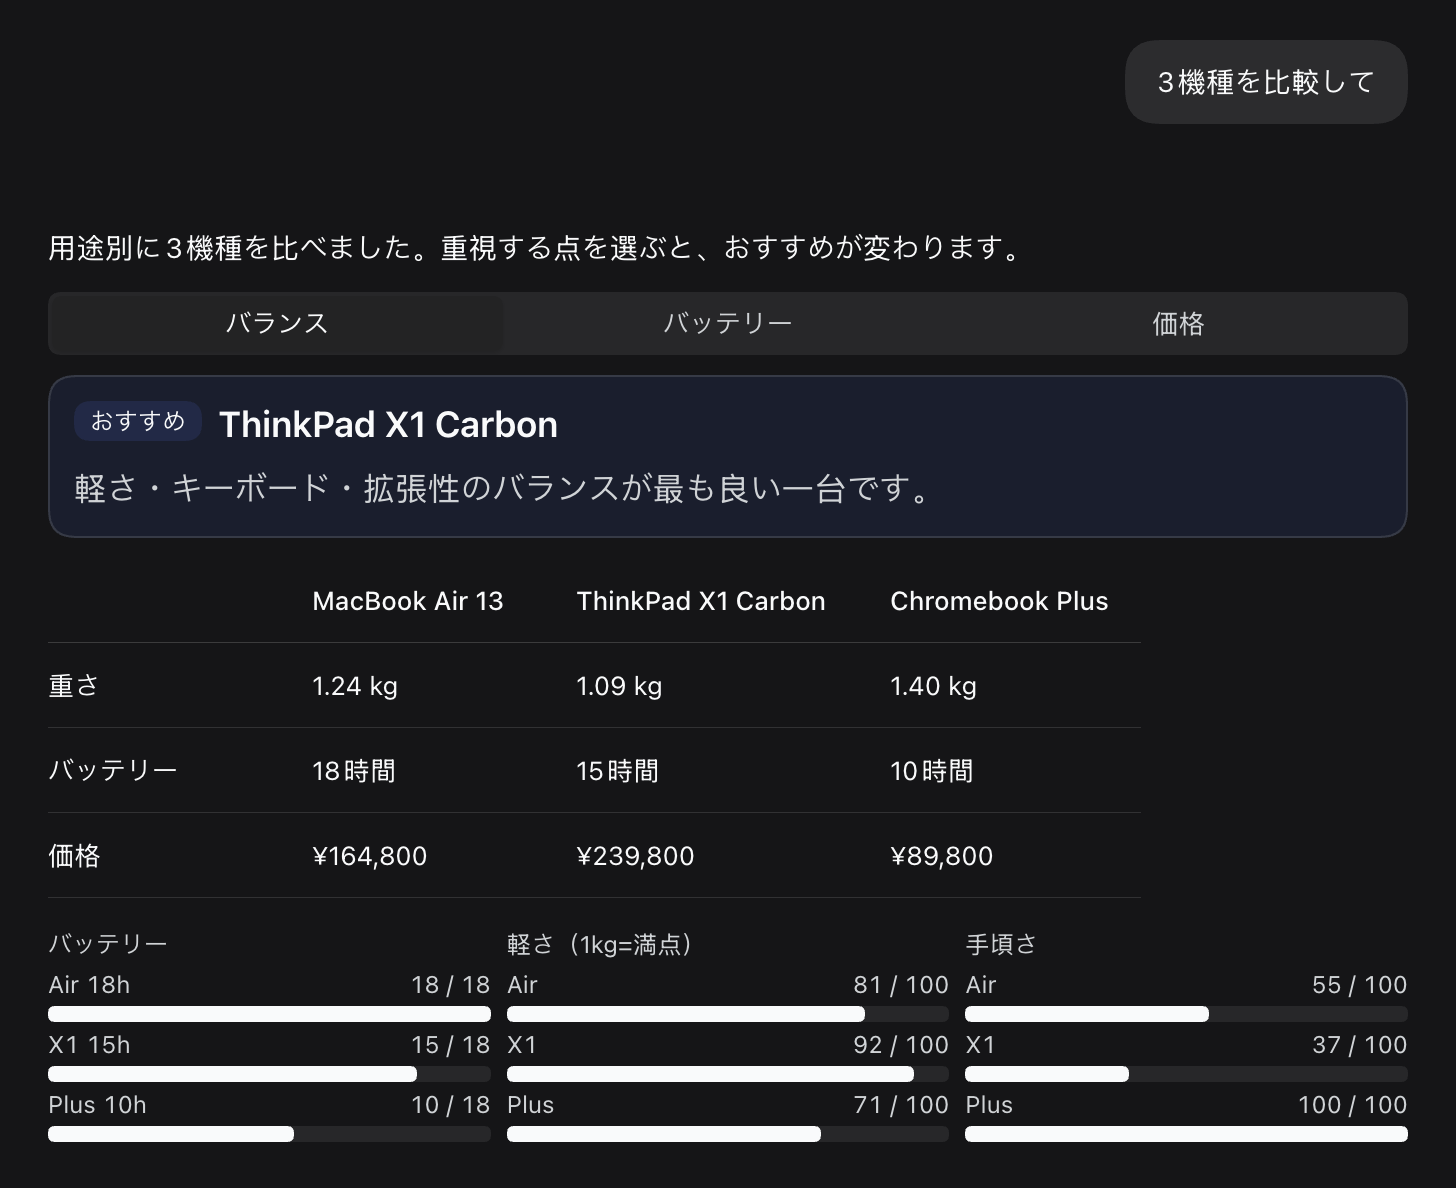
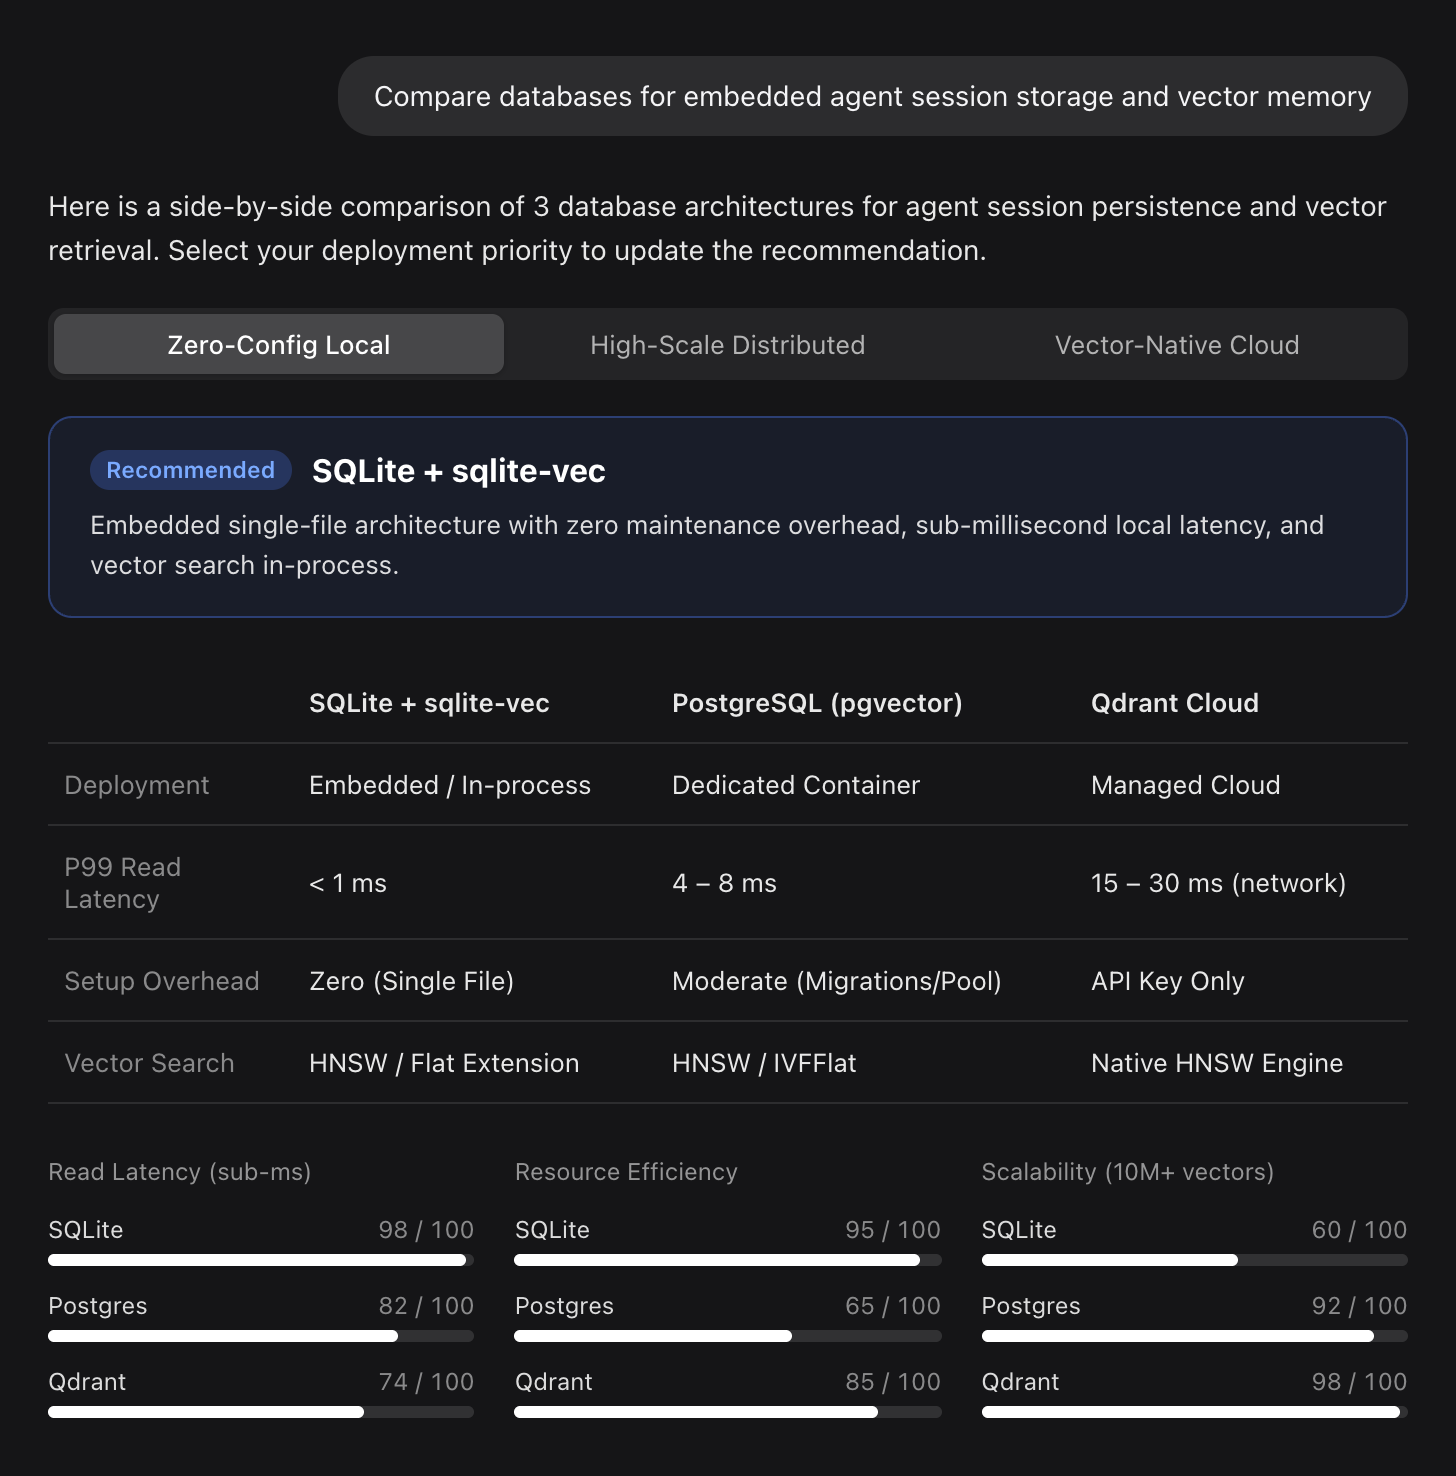
docs: refresh screenshots with practical engineering and infrastructure themes

diff --git a/README.ja.md b/README.ja.md
@@ -16,13 +16,13 @@
 
 ## 📸 スクリーンショット
 
-| 🧮 リアルタイム料金シミュレーター | ⚖ インタラクティブ比較カード |
+| 🧮 リアルタイムコスト試算シミュレーター | ⚖ インタラクティブ技術選定・比較カード |
 | :---: | :---: |
-| <img src="https://raw.githubusercontent.com/rakutek/dsh-intelligent-ui/main/docs/simulator.png" alt="スライダーとKPIタイル、棒グラフを備えた料金シミュレーター" width="440"> | <img src="https://raw.githubusercontent.com/rakutek/dsh-intelligent-ui/main/docs/comparison.png" alt="フォーカス切り替え、推奨カード、スペック表、バーを備えたノートPC比較" width="440"> |
+| <img src="https://raw.githubusercontent.com/rakutek/dsh-intelligent-ui/main/docs/simulator-ja.png" alt="スライダーとKPIタイル、棒グラフを備えたLLM API料金シミュレーター" width="440"> | <img src="https://raw.githubusercontent.com/rakutek/dsh-intelligent-ui/main/docs/comparison-ja.png" alt="要件切り替え、推奨スタック、スペック表、スコアバーを備えたデータベース比較" width="440"> |
 
 <div align="center">
   <p><strong>🎨 角丸ノードとテーマ調和カラーを備えた Mermaid フローチャート</strong></p>
-  <img src="https://raw.githubusercontent.com/rakutek/dsh-intelligent-ui/main/docs/diagram.png" alt="メイラード反応のMermaidフローチャート（セマンティック配色と2段組ラベル付き）" width="680">
+  <img src="https://raw.githubusercontent.com/rakutek/dsh-intelligent-ui/main/docs/diagram-ja.png" alt="カナリアデプロイと自動ロールバックのMermaidフローチャート（セマンティック配色と2段組ラベル付き）" width="680">
 </div>
 
 ---

diff --git a/README.md b/README.md
@@ -14,13 +14,13 @@ English | [日本語](README.ja.md) | [中文](README.zh.md)
 
 ## 📸 Screenshots
 
-| 🧮 Interactive Pricing Simulator | ⚖ Interactive Comparison Card |
+| 🧮 Interactive Cost Simulator | ⚖ Interactive Tech Stack Comparison |
 | :---: | :---: |
-| <img src="https://raw.githubusercontent.com/rakutek/dsh-intelligent-ui/main/docs/simulator.png" alt="Pricing simulator with sliders, KPI tiles, and a bar chart" width="440"> | <img src="https://raw.githubusercontent.com/rakutek/dsh-intelligent-ui/main/docs/comparison.png" alt="Laptop comparison with a focus switch, a recommendation card, a table, and bars" width="440"> |
+| <img src="https://raw.githubusercontent.com/rakutek/dsh-intelligent-ui/main/docs/simulator.png" alt="LLM API cost estimator with sliders, KPI tiles, and a bar chart" width="440"> | <img src="https://raw.githubusercontent.com/rakutek/dsh-intelligent-ui/main/docs/comparison.png" alt="Database stack comparison with a deployment switch, a recommendation card, a table, and score bars" width="440"> |
 
 <div align="center">
   <p><strong>🎨 Themed Mermaid Diagrams with Rounded Nodes & Semantic Role Colors</strong></p>
-  <img src="https://raw.githubusercontent.com/rakutek/dsh-intelligent-ui/main/docs/diagram.png" alt="Mermaid flowchart of the Maillard reaction with role colors and title-and-detail labels" width="680">
+  <img src="https://raw.githubusercontent.com/rakutek/dsh-intelligent-ui/main/docs/diagram.png" alt="Mermaid flowchart of an autonomous canary deployment pipeline with role colors and title-and-detail labels" width="680">
 </div>
 
 ---

diff --git a/README.zh.md b/README.zh.md
@@ -16,13 +16,13 @@
 
 ## 📸 效果展示
 
-| 🧮 实时费用计算器 | ⚖ 动态产品对比卡片 |
+| 🧮 实时成本测算模拟器 | ⚖ 动态技术选型对比卡片 |
 | :---: | :---: |
-| <img src="https://raw.githubusercontent.com/rakutek/dsh-intelligent-ui/main/docs/simulator.png" alt="带有滑块、KPI 卡片与柱状图的费用计算器" width="440"> | <img src="https://raw.githubusercontent.com/rakutek/dsh-intelligent-ui/main/docs/comparison.png" alt="带有焦点切换、推荐卡片、规格表与进度条的笔记本电脑对比" width="440"> |
+| <img src="https://raw.githubusercontent.com/rakutek/dsh-intelligent-ui/main/docs/simulator.png" alt="带有滑块、KPI 卡片与柱状图的 LLM API 费用测算器" width="440"> | <img src="https://raw.githubusercontent.com/rakutek/dsh-intelligent-ui/main/docs/comparison.png" alt="带有部署选项切换、推荐卡片、规格表与得分条的数据库对比" width="440"> |
 
 <div align="center">
   <p><strong>🎨 圆角卡片与主题配色自适应的 Mermaid 流程图</strong></p>
-  <img src="https://raw.githubusercontent.com/rakutek/dsh-intelligent-ui/main/docs/diagram.png" alt="美拉德反应流程图（语义角色配色与标题/细节双层标签）" width="680">
+  <img src="https://raw.githubusercontent.com/rakutek/dsh-intelligent-ui/main/docs/diagram.png" alt="带自动回滚的自主金丝雀部署流程图（语义角色配色与标题/细节双层标签）" width="680">
 </div>
 
 ---
